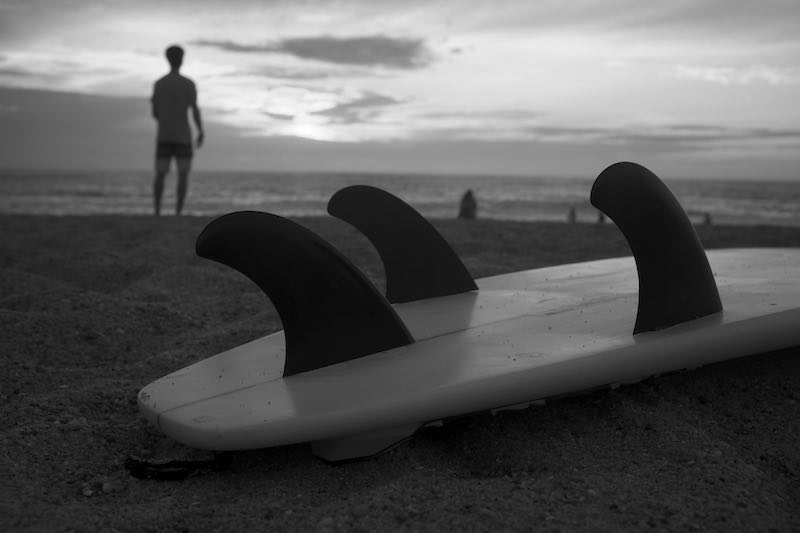
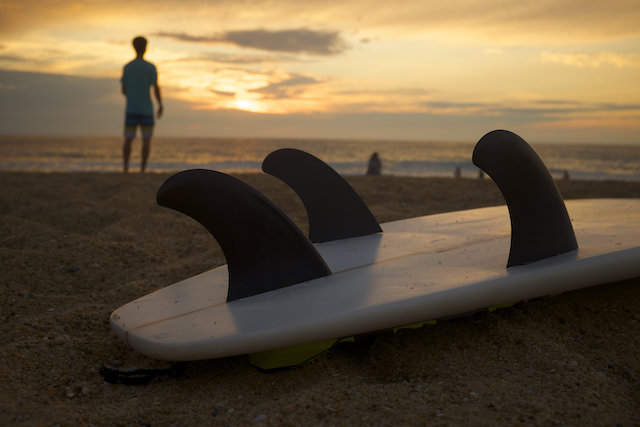
modifies project images

diff --git a/styles/main.css b/styles/main.css
@@ -329,7 +329,7 @@ html {
   overflow: hidden;
   width: 100%;
   height: 100%;
-  background: url(./../images/image-index.jpg) no-repeat top center;
+  background: linear-gradient(rgba(0, 0, 0, 0.5), rgba(0, 0, 0, 0.5)), url(./../images/image-index.jpeg) no-repeat top center;
   -webkit-background-size: cover;
   -moz-background-size: cover;
   -o-background-size: cover;
@@ -464,7 +464,7 @@ html {
       margin: 0 10px; } }
 
 #nav i {
-  font-size: .775rem;
+  font-size: .675rem;
   line-height: 1.125;
   margin-left: 3px; }
   @media only screen and (min-width: 768px) {
@@ -532,23 +532,32 @@ html {
   color: #fff; }
   .project-links a:hover {
     cursor: pointer;
-    transition: color .4s;
+    transition: color .5s;
     color: #f97172; }
 
 .thumbnail {
+  -webkit-transition: all .5s ease-in-out;
   -webkit-background-size: cover;
   -moz-background-size: cover;
   -o-background-size: cover;
   background-size: cover; }
 
+.thumbnail-filter {
+  filter: url(filters.svg#grayscale);
+  /* Firefox 3.5+ */
+  filter: gray;
+  /* IE5+ */
+  -webkit-filter: grayscale(1);
+  /* Webkit Nightlies & Chrome Canary */ }
+
 .thumbnail-one {
-  background: url(./../images/thumbnail-one.jpeg) no-repeat top center; }
+  background: url(./../images/thumbnail-one.jpeg) no-repeat; }
 
 .thumbnail-two {
-  background: url(./../images/thumbnail-two.jpg) no-repeat center bottom; }
+  background: linear-gradient(transparent, rgba(0, 0, 0, 0.75)), url(./../images/thumbnail-two.jpeg) no-repeat bottom; }
 
 .thumbnail-three {
-  background: linear-gradient(transparent, rgba(0, 0, 0, 0.75)), url(./../images/thumbnail-three.jpeg) no-repeat center center; }
+  background: url(./../images/thumbnail-three.jpeg) no-repeat; }
 
 #section-skills .icon {
   font-size: 2.5rem;

diff --git a/styles/_sectionProjects.scss b/styles/_sectionProjects.scss
@@ -108,7 +108,7 @@ $primary-accent-color: #f97172;
     &:hover
     {
         cursor: pointer;
-        transition: color .4s;
+        transition: color .5s;
 
         color: $primary-accent-color;
     }
@@ -116,29 +116,32 @@ $primary-accent-color: #f97172;
 
 .thumbnail
 {
+    -webkit-transition: all .5s ease-in-out;
+
     -webkit-background-size: cover;
        -moz-background-size: cover;
          -o-background-size: cover;
             background-size: cover;
 }
 
-// .thumbnail-filter
-// {
-//     -webkit-filter: grayscale(90%);
-//             filter: grayscale(90%);
-// }
+.thumbnail-filter
+{
+            filter: url(filters.svg#grayscale); /* Firefox 3.5+ */
+            filter: gray; /* IE5+ */
+    -webkit-filter: grayscale(1); /* Webkit Nightlies & Chrome Canary */
+}
 
 .thumbnail-one
 {
-    background: url(./../images/thumbnail-one.jpeg) no-repeat top center;
+    background: url(./../images/thumbnail-one.jpeg) no-repeat;
 }
 
 .thumbnail-two
 {
-    background: url(./../images/thumbnail-two.jpg) no-repeat center bottom;
+    background: linear-gradient(rgba(0,0,0, 0), rgba(0,0,0,.75)), url(./../images/thumbnail-two.jpeg) no-repeat bottom;
 }
 
 .thumbnail-three
 {
-    background: linear-gradient(rgba(0,0,0,0), rgba(0,0,0,.75)), url(./../images/thumbnail-three.jpeg) no-repeat center center;
+    background: url(./../images/thumbnail-three.jpeg) no-repeat;
 }

diff --git a/styles/_sectionHeader.scss b/styles/_sectionHeader.scss
@@ -10,7 +10,7 @@ $primary-accent-color: #f97172;
     width: 100%;
     height: 100%;
 
-    background: url(./../images/image-index.jpg) no-repeat top center;
+    background: linear-gradient(rgba(0,0,0,.5), rgba(0,0,0,.5)), url(./../images/image-index.jpeg) no-repeat top center;
     -webkit-background-size: cover;
        -moz-background-size: cover;
          -o-background-size: cover;
@@ -218,7 +218,7 @@ $primary-accent-color: #f97172;
 
 #nav i
 {
-    font-size: .775rem;
+    font-size: .675rem;
     line-height: 1.125;
 
     margin-left: 3px;

diff --git a/scripts/main.js b/scripts/main.js
@@ -26,6 +26,12 @@ $(function() {
     x = 0;
   });
 
+  $('.project-links a').on('mouseover', function(){
+    $(this).parent().parent().toggleClass('thumbnail-filter').fadeIn(500);
+  }).on('mouseout', function(){
+    $(this).parent().parent().toggleClass('thumbnail-filter').fadeIn(500);
+  });
+
   $('.toggle-button').on('click', function() {
     var display = $('.nav-list').css('display');
     if (display === 'none') {
